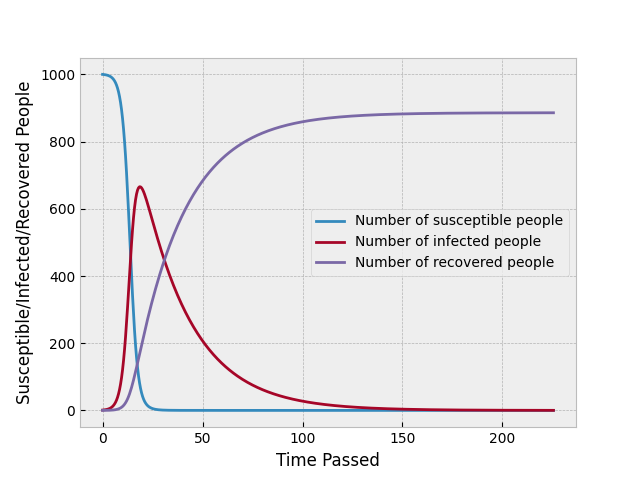
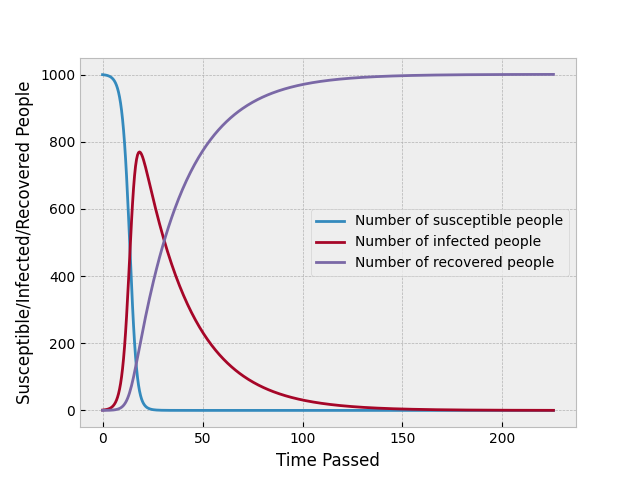
fixed error where the recovered would get closer and closer to 1k in sir_model.py

diff --git a/analysis/sir_model.py b/analysis/sir_model.py
@@ -12,13 +12,21 @@ for n in range(226):
     times.append(n)
     times.append(n + 0.5)
 
+def clone(n):
+    cloned_value = 0
+    return cloned_value + n
+
 for _ in range(len(times)):
     susceptible_values.append(susceptible)
     infected_values.append(infected)
     recovered_values.append(recovered)
-    susceptible += -0.0003 * susceptible * infected
-    infected += 0.0003 * susceptible * infected - 0.02 * infected
-    recovered += 0.02 * infected
+
+    cloned_susceptible = clone(susceptible)
+    cloned_infected = clone(infected)
+    
+    susceptible += -0.0003 * cloned_susceptible * cloned_infected
+    infected += 0.0003 * cloned_susceptible * cloned_infected - 0.02 * infected
+    recovered += 0.02 * cloned_infected
 
 plt.style.use('bmh')
 plt.plot(times, susceptible_values, label='Number of susceptible people')
